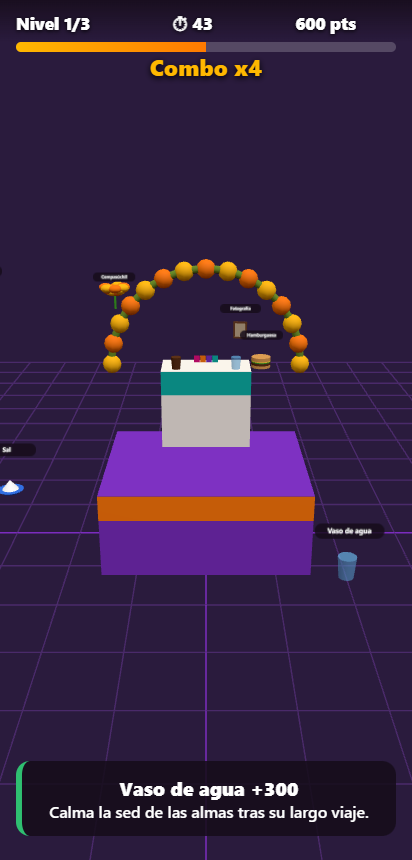
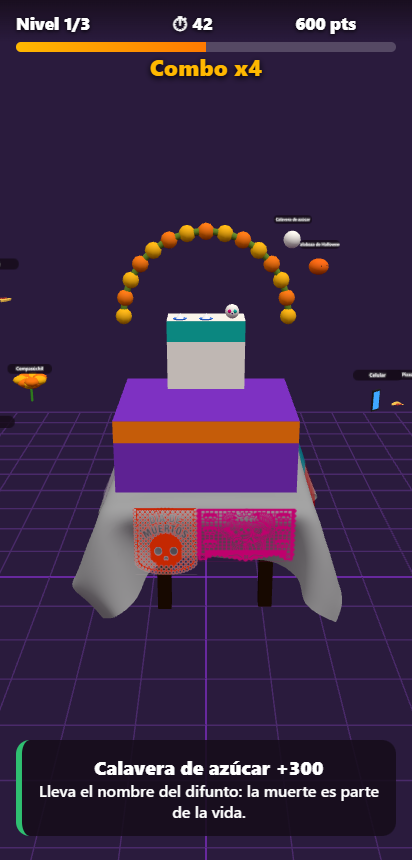
docs: refresh screenshots with the Sketchfab table altar
Raise the demo camera so the taller altar fits the frame.

diff --git a/js/main.js b/js/main.js
@@ -345,8 +345,8 @@ function iniciarDemo() {
   scene.background = new THREE.Color(0x2a1b3d);
   const piso = new THREE.GridHelper(4, 20, 0x7b2cbf, 0x4a2a6a);
   scene.add(piso);
-  camera.position.set(0, 1.15, 2.1);
-  camera.lookAt(0, 0.35, 0);
+  camera.position.set(0, 1.5, 2.5);
+  camera.lookAt(0, 0.6, 0); // el altar va sobre la mesa
   colocarAltar(new THREE.Matrix4());
   renderer.domElement.addEventListener('pointerdown', e => {
     if (fase !== 'jugando') return;
